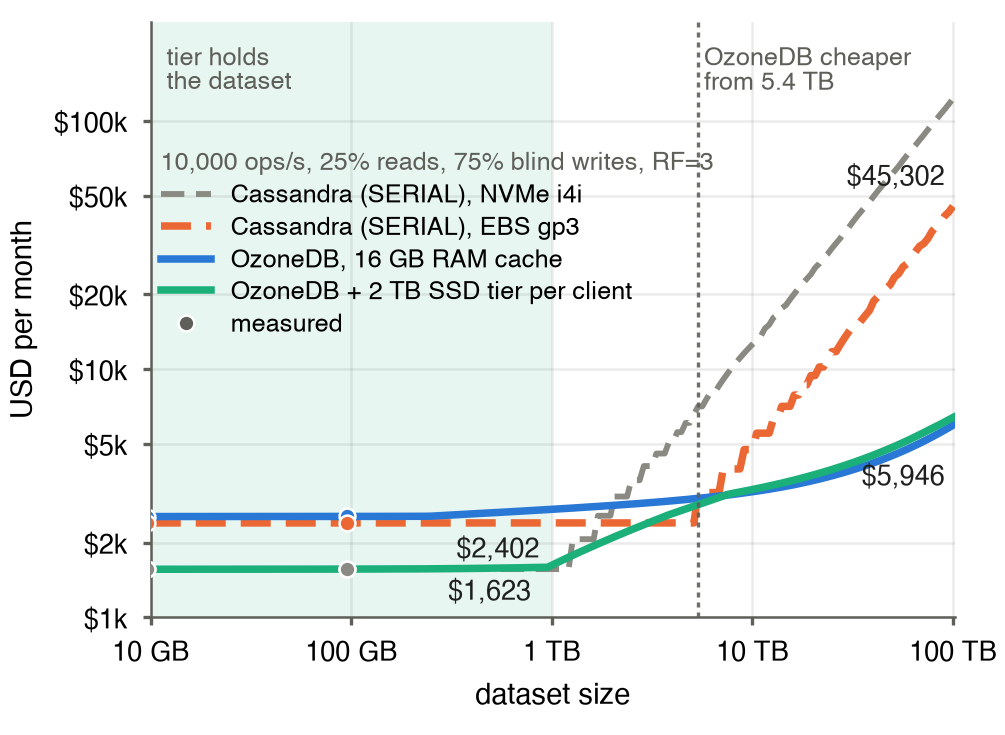
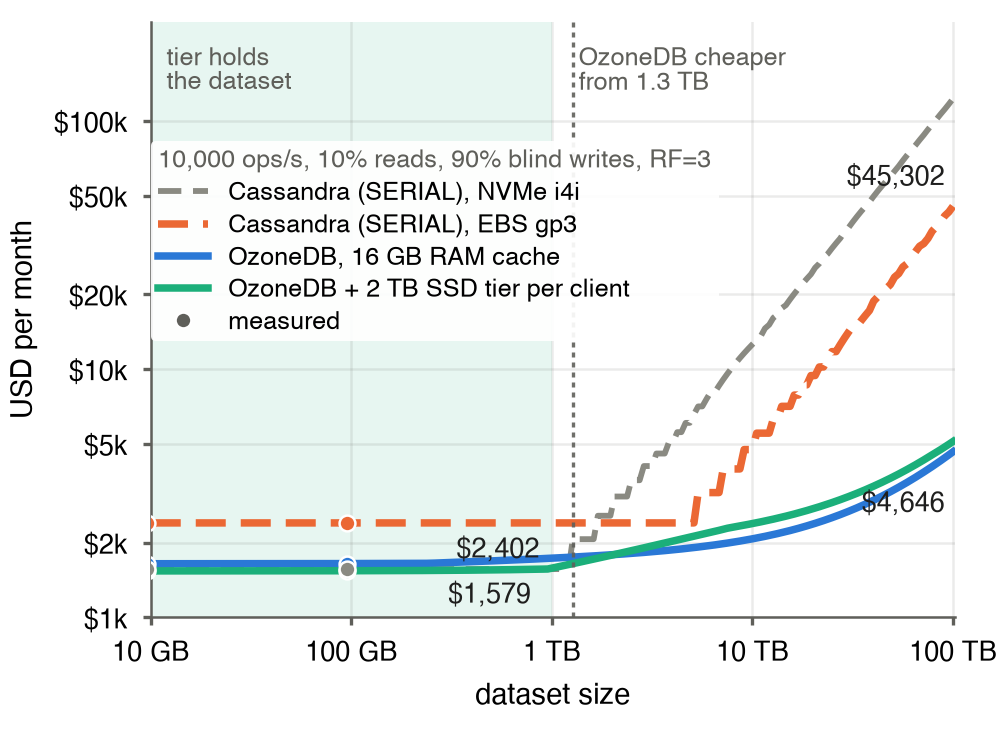
bench: paper cost figure at 10 % reads / 90 % blind writes; legend backed so the cheaper-from marker cannot run through it
At this mix OzoneDB stays under the cheaper Cassandra layout from 1.3 TB (the NVMe fourth-node step): $2,073 vs $4,742 at 10 TB, $4,646 vs $45,302 at 100 TB. The tier line crosses above the RAM line near 2 TB ($2,388 at 10 TB): with 1,000 reads/s there is little left for a tier to serve. RESULTS-cost.md 'Paper figure' updated with the numbers and the caveats (no cell below 50 % reads, reads unmeasured beside a 9,000 puts/s fleet, 24 TB a month of inserts).

Claude-Session: https://claude.ai/code/session_01NGxReJb9LDcmdrCuRqfn7h

Changed region(s): [[0.1542, 0.1796, 0.7095, 0.449], [0.1542, 0.5687, 0.9562, 0.8381], [0.5552, 0.0599, 0.9254, 0.1497]]

diff --git a/bench/scripts/plot/paper_cost_figure.py b/bench/scripts/plot/paper_cost_figure.py
@@ -205,7 +205,9 @@ def panel_a(ax, coef, model, prices, s, single):
         ax.spines[side].set_linewidth(0.6)
     ax.tick_params(length=2, color=INK2, labelsize=fs)
     pr = prices["projection"]
-    leg = ax.legend(fontsize=fs - 0.5, loc="upper left", bbox_to_anchor=(0.0, 0.80), frameon=False,
+    # A white backing: the "cheaper from" marker can fall under the legend.
+    leg = ax.legend(fontsize=fs - 0.5, loc="upper left", bbox_to_anchor=(0.0, 0.80), frameon=True,
+                    facecolor="white", edgecolor="none", framealpha=0.92, borderpad=0.3,
                     handlelength=2.0, borderaxespad=0.0, labelspacing=0.35,
                     title=f"{pr['ops_per_s']:,} ops/s, {pr['read_fraction']:.0%} reads, "
                           f"{1 - pr['read_fraction']:.0%} blind writes, RF={pr['rf']}",

diff --git a/bench/RESULTS-cost.md b/bench/RESULTS-cost.md
@@ -244,14 +244,14 @@ the `cass_mode` column. `--cassandra-mode quorum` reproduces the earlier run.
 **Paper figure.** `bench/fig_cost.{pdf,png}` (double column: (a) the projection, (b) the
 10 TB bill) and `bench/fig_cost_col.{pdf,png}` ((a) alone, single column) come from
 `bench/scripts/plot/paper_cost_figure.py`, which evaluates the same `Coefficients` and
-`Model` on a 48-per-decade grid from 10 GB, **at 25 % reads and 75 % blind writes**
-(`--read-fraction 0.25`; the figure's legend title says so):
+`Model` on a 48-per-decade grid from 10 GB, **at 10 % reads and 90 % blind writes**
+(`--read-fraction 0.10`; the figure's legend title says so):
 
 ```bash
 uv run --with matplotlib python3 bench/scripts/plot/paper_cost_figure.py \
   bench/results-cost2-20260828.tsv bench/scripts/plot/prices.json \
   --space bench/scripts/plot/space.json --tier-variant ch64k-adm \
-  --cassandra-mode serial --read-fraction 0.25 --out bench/fig_cost
+  --cassandra-mode serial --read-fraction 0.10 --out bench/fig_cost
 ```
 
 Four series — OzoneDB with the 16 GB cache as one line (the 4 GB line is at most $350
@@ -259,24 +259,28 @@ above it and is left to the text), OzoneDB with the 2 TB tier, Cassandra EBS, Ca
 NVMe as the gray context line — filled markers at the two measured sizes and none
 beyond, the tier regime shaded to 1 TB (the last grid point where the tier's own hit
 rate is at least 0.95), and one "cheaper from" marker per OzoneDB line at the smallest
-size from which the line *stays* below the cheaper Cassandra layout. At 25 % reads both
-markers fall on the same grid point, **5.4 TB**, which is the EBS layout's fourth-node
-step, so the figure draws one. Numbers at this mix: OzoneDB $2,551 at 100 GB and $2,724 at 1 TB
-against Cassandra EBS $2,402 and NVMe $1,565; the tier $1,565 at 100 GB and $1,623 at
-1 TB; at 10 TB OzoneDB $3,207
-(GETs $1,894, the log tier $614, clients $420) against EBS $4,742; at 100 TB $5,946
-against $45,302. Panel (b) drops the NVMe bar ($12,587 at 10 TB) so the OzoneDB
-segments stay legible; the projection carries the NVMe blow-up.
+size from which the line *stays* below the cheaper Cassandra layout. At 10 % reads both
+markers fall on the same grid point, **1.3 TB**, which is the NVMe layout's fourth-node
+step, so the figure draws one. Numbers at this mix: OzoneDB $1,645 at 100 GB and $1,732
+at 1 TB against Cassandra EBS $2,402 and NVMe $1,565; the tier $1,539 at 100 GB and
+$1,579 at 1 TB; at 10 TB OzoneDB $2,073 (GETs $759, the log tier $614, clients $420,
+S3 storage $274) against EBS $4,742; at 100 TB $4,646 against $45,302. The tier line
+crosses *above* the RAM line near 2 TB and reads $2,388 at 10 TB: with 1,000 reads/s
+there is little left for a tier to serve, and its $480 of gp3 is not recovered. Panel
+(b) drops the NVMe bar ($12,587 at 10 TB) so the OzoneDB segments stay legible; the
+projection carries the NVMe blow-up.
 
 Caveats the caption must carry: the campaign measured no cell below 50 % reads, so the
 client CPU per op is workload a's (0.83 ms; the loads measured 0.71 to 0.77 ms per put,
-so the client count holds) and reads were not measured beside a 7,500 puts/s fleet
-write rate (finding 10); at 10,000 ops/s the 75 % insert stream adds 20 TB a month, so
-the x-axis is a point in time unless the writes are overwrites. The GET line is linear
-in the read fraction ($757 a month per 10 points at 10 TB): at 50 % reads the marker
-moves to 10 TB to 13 TB (the tier line is $4,753 against $4,742 at exactly 10 TB, and
-`plot_cost_model.py`'s first-dip crossovers of 12.1 TB and 14.7 TB are grid artefacts),
-and at 100 % reads (a read-modify-write update) to 26 TB.
+so the client count holds) and reads were not measured beside a 9,000 puts/s fleet
+write rate (finding 10; the loads ran 12,000 to 14,000 puts/s from one host); at
+10,000 ops/s the 90 % insert stream adds 24 TB a month, so the x-axis is a point in
+time unless the writes are overwrites. The GET line is linear in the read fraction
+($757 a month per 10 points at 10 TB): at 25 % reads the marker moves to 5.4 TB (the
+EBS fourth-node step), at 50 % reads to a 10 TB to 13 TB band (the tier line is $4,753
+against $4,742 at exactly 10 TB, and `plot_cost_model.py`'s first-dip crossovers of
+12.1 TB and 14.7 TB are grid artefacts), and at 100 % reads (a read-modify-write
+update) to 26 TB.
 
 | D | Cassandra NVMe | Cassandra EBS | OzoneDB, 16 GB cache | OzoneDB, 4 GB | OzoneDB + 2 TB tier per client | OzoneDB, no trimming | `h` at 16 GB | zipfian, 16 GB |
 |--:|--:|--:|--:|--:|--:|--:|--:|--:|
